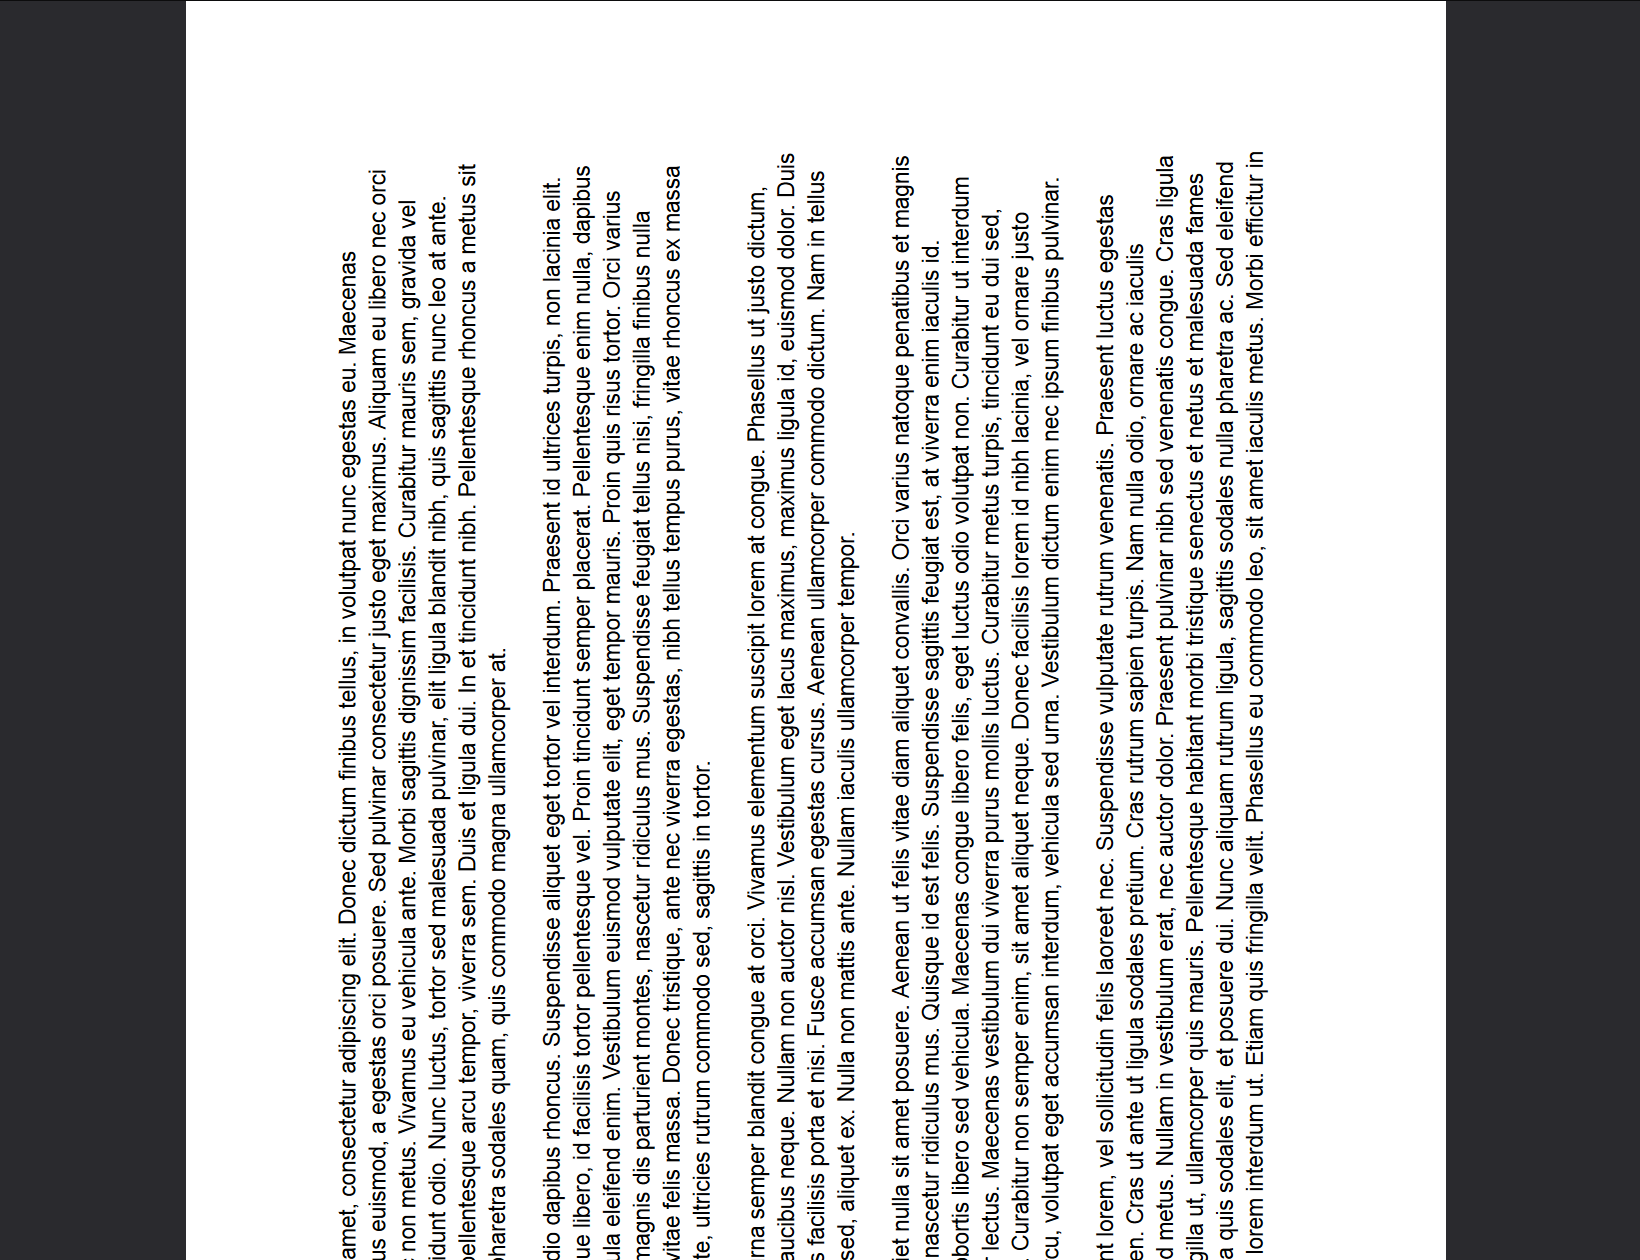
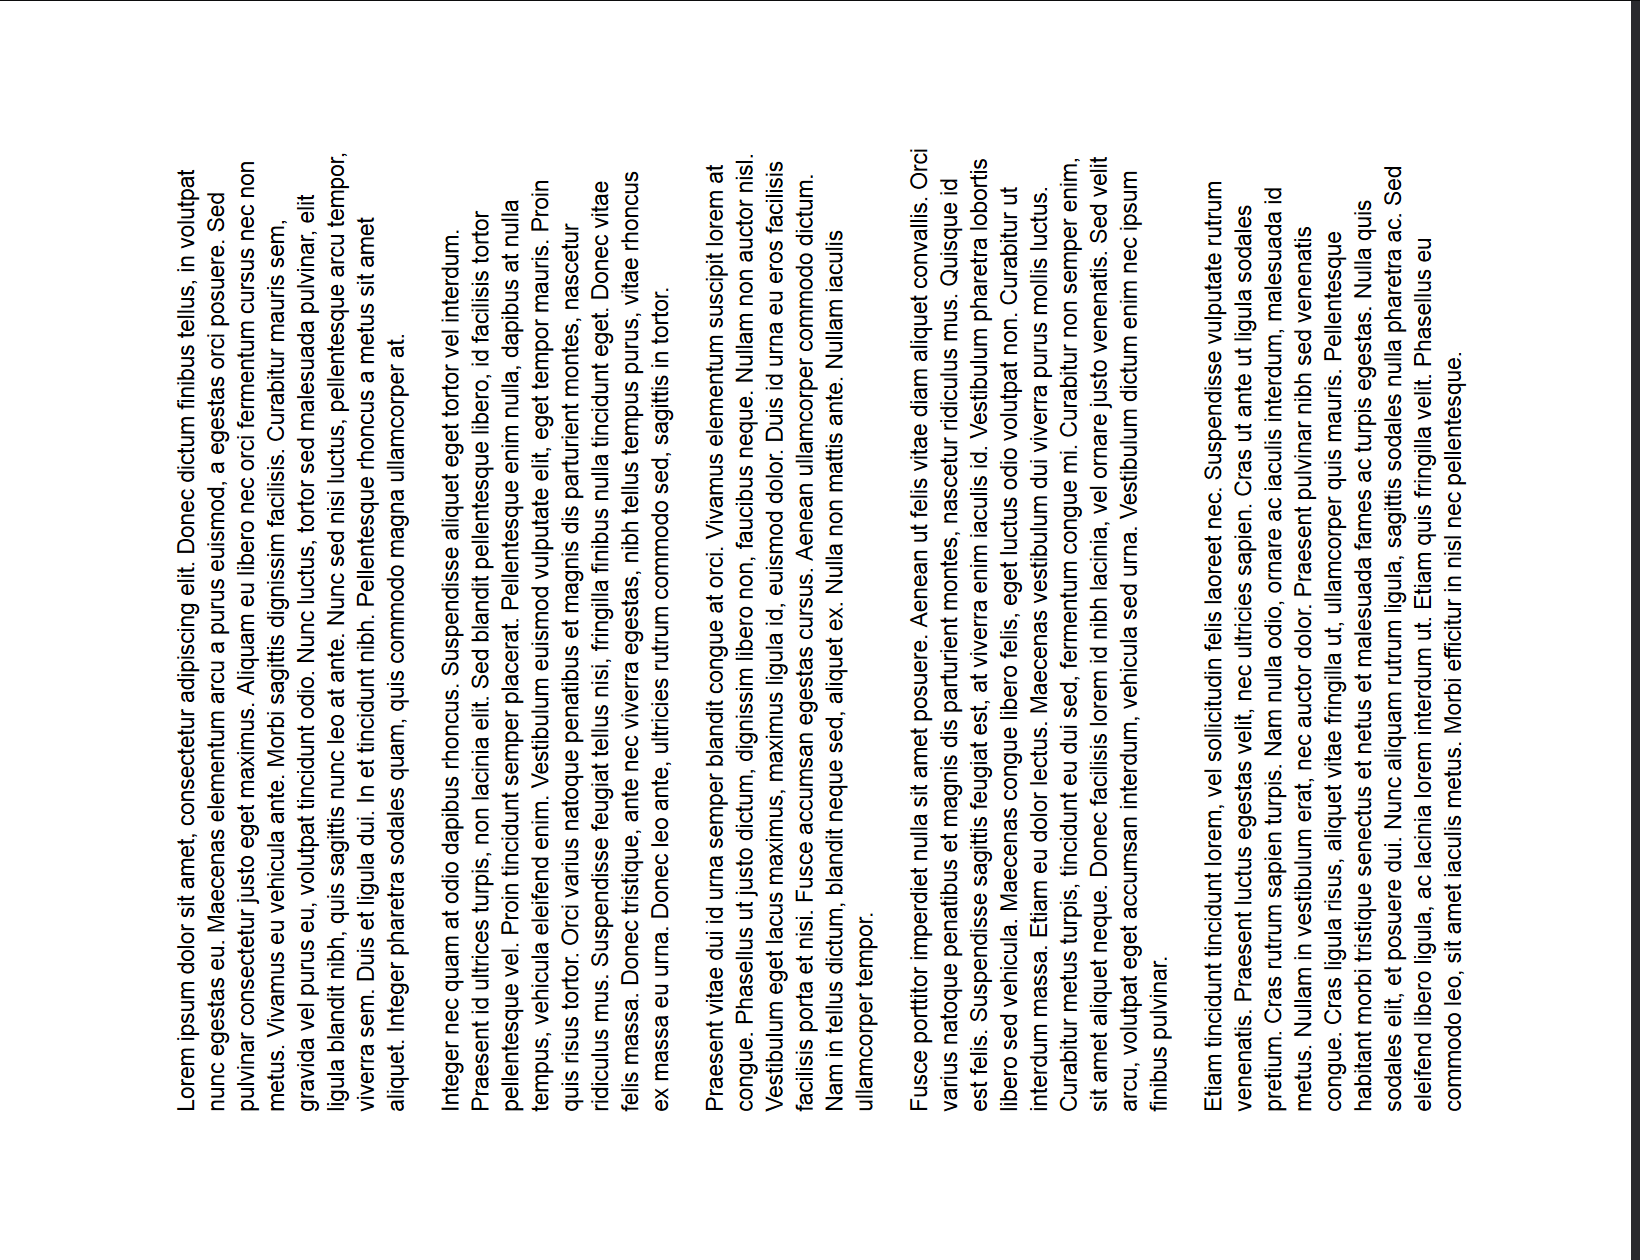
1

diff --git a/main.py b/main.py
@@ -2,6 +2,7 @@ import pyautogui
 import PIL
 import time
 import cv2
+import os
 
 
 
@@ -13,31 +14,58 @@ IMG_CHECK_Y = 200
 IMG_CHECK_X = 1539
 
 
-def is_portrait(pixel_colour):
+def is_rotated(pixel_colour):
     colour_total = 0
 
     for colour in pixel_colour:
-        print(f'This is the {colour}')
+        #print(f'This is the {colour}')
         colour_total += colour
-        print(f'This is the total: {colour_total}')
+        #print(f'This is the total: {colour_total}')
     if colour_total == 130:
         return True
     else:
         return False
 
+def rotate_clockwise():
+    #open menu
+    pyautogui.click(2541, 129)
+    #rotate page
+    pyautogui.click(2418, 298)
+    #close menu
+    pyautogui.click(2541, 129)
 
+def rotate_anticlockwise():
+    # open menu
+    pyautogui.click(2541, 129)
+    # rotate page
+    pyautogui.click(2418, 327)
+    # close menu
+    pyautogui.click(2541, 129)
 
-
-for i in range(0,3):
-    time.sleep(1)
+def take_screenshot(i):
     im = pyautogui.screenshot(region=LANDSCAPE_REGION_PGFIT)
     im_filename = (f'screenshot{i}.png')
     im.save(im_filename)
+    return im_filename
 
-    cv2_img = cv2.imread(im_filename,1)
+for i in range(0,3):
+    time.sleep(1)
+    filename = take_screenshot(i)
+
+    cv2_img = cv2.imread(filename,1)
     colour_check = cv2_img[IMG_CHECK_Y][IMG_CHECK_X]
-    print(f'This is colourcheck: {colour_check}')
-    is_portrait(colour_check)
+
+    if is_rotated(colour_check):
+        print("true")
+        os.remove(filename)
+        rotate_clockwise()
+        time.sleep(1)
+        take_screenshot(i)
+        rotate_anticlockwise()
+
+    else:
+        cv2.rotate(cv2_img, cv2.ROTATE_90_CLOCKWISE)
+        print("false")
 
 
 
